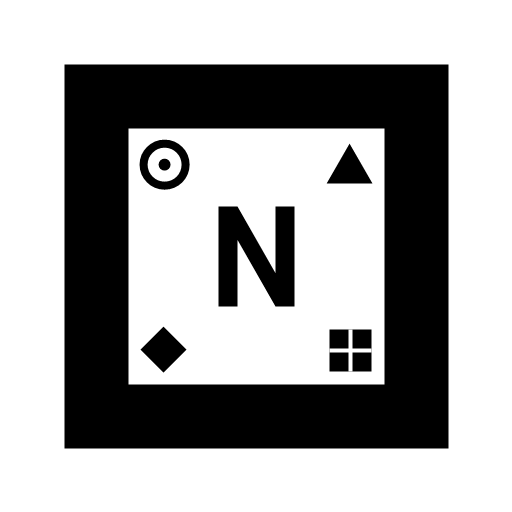
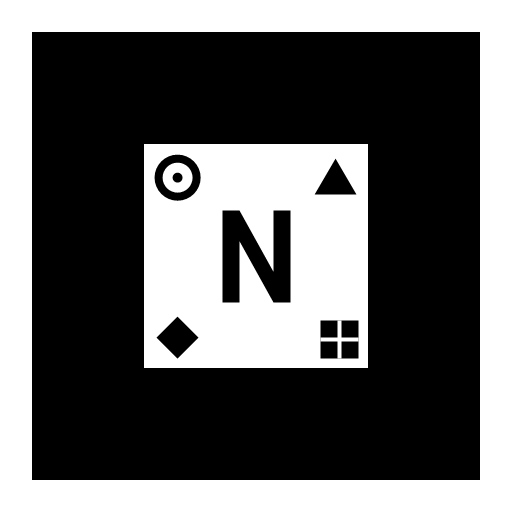
fix(ar): calibrate marker geometry to exact 50% ratio and enable emitsEvents on custom pattern

diff --git a/alumno.html b/alumno.html
@@ -55,9 +55,9 @@
     .hud-line span:last-child { color: #00f2fe; font-weight: 700; }
   </style>
 
-  <!-- Auto Cache-Buster Revision 6 -->
+  <!-- Auto Cache-Buster Revision 7 -->
   <script>
-    const CURRENT_REV = "rev6_natex_calibrated";
+    const CURRENT_REV = "rev7_natex_emits_events";
     if (new URLSearchParams(window.location.search).get("v") !== CURRENT_REV) {
       window.location.replace("alumno.html?v=" + CURRENT_REV);
     }
@@ -68,7 +68,7 @@
   <!-- UI FLOTANTE -->
   <div class="ar-ui-container">
     <div class="top-bar">
-      <div class="badge">VLAB_N • CALIBRADO NATEX</div>
+      <div class="badge">VLAB_N • CALIBRADO NATEX V7</div>
       <a href="marcador.html" target="_blank" class="btn-marker-help">📄 Ver Diana Natex</a>
     </div>
 
@@ -85,10 +85,10 @@
   </div>
 
   <!-- ESCENA AR CON DOBLE COMPATIBILIDAD (NATEX RATIO 0.5 + HIRO) -->
-  <a-scene embedded arjs="sourceType: webcam; debugUIEnabled: false; detectionMode: mono_and_matrix; patternRatio: 0.5;">
+  <a-scene embedded arjs="sourceType: webcam; debugUIEnabled: false; detectionMode: mono_and_matrix;">
     
     <!-- 1. DIANA OFICIAL NATEX (Círculo, Triángulo, Diamante, Cuadrado y N) -->
-    <a-marker type="pattern" url="pattern-natex.patt" patternRatio="0.5" id="natex-target">
+    <a-marker type="pattern" url="./pattern-natex.patt" patternRatio="0.5" emitsEvents="true" smooth="true" smoothCount="5" id="natex-target">
       <!-- Base de Metal -->
       <a-box position="0.1 0.02 0" width="0.65" height="0.04" depth="0.4" color="#1e293b" metalness="0.8" roughness="0.2"></a-box>
       <!-- Mástil Vertical -->
@@ -106,7 +106,7 @@
     </a-marker>
 
     <!-- 2. FALLBACK UNIVERSAL HIRO -->
-    <a-marker preset="hiro" id="hiro-target">
+    <a-marker preset="hiro" emitsEvents="true" smooth="true" smoothCount="5" id="hiro-target">
       <a-box position="0.1 0.02 0" width="0.65" height="0.04" depth="0.4" color="#1e293b" metalness="0.8" roughness="0.2"></a-box>
       <a-cylinder position="0.32 0.75 0" radius="0.02" height="1.5" color="#94a3b8" metalness="0.9" roughness="0.1"></a-cylinder>
       <a-box position="0.32 1.48 0" width="0.07" height="0.07" depth="0.07" color="#00f2fe"></a-box>
